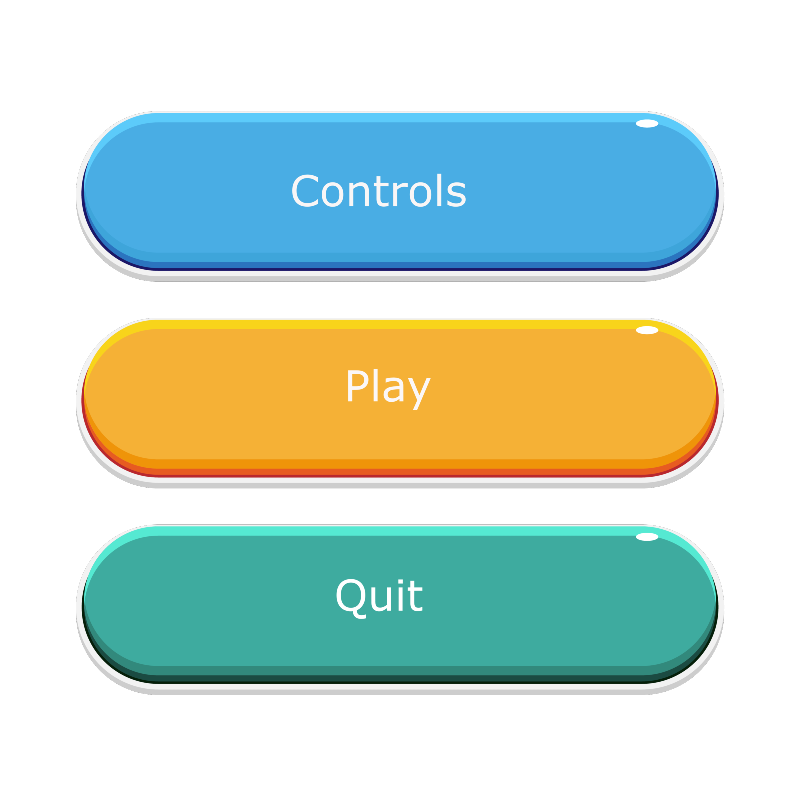
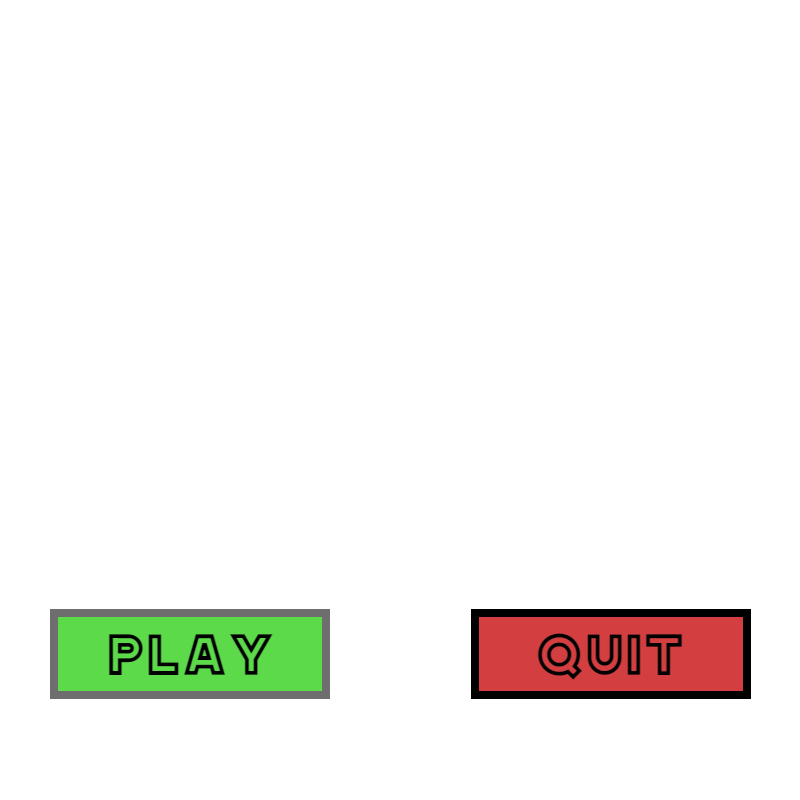
Amelioration de l'ecran d'accueil

diff --git a/CHADventure/CHADventure/ScreenMenu.cs b/CHADventure/CHADventure/ScreenMenu.cs
@@ -25,10 +25,10 @@ namespace CHADventure
         public ScreenMenu(Game1 game) : base(game)
         {
             _myGame = game;
-            lesBoutons = new Rectangle[3];
-            lesBoutons[0] = new Rectangle(75, 110, 640, 160);
-            lesBoutons[1] = new Rectangle(75, 320, 640, 160);
-            lesBoutons[2] = new Rectangle(75, 528, 640, 160);
+            lesBoutons = new Rectangle[2];
+            lesBoutons[0] = new Rectangle(50, 609, 279, 89);
+            lesBoutons[1] = new Rectangle(471, 609, 279, 89);
+
 
         }
         public override void LoadContent()
@@ -49,12 +49,10 @@ namespace CHADventure
                     {
                         // on change l'état défini dans Game1 en fonction du bouton cliqué
                         if (i == 0)
-                            _myGame.etat = Game1.Etats.Controls;
-                        else if (i == 1)
                             _myGame.etat = Game1.Etats.Play;
                         else
                             _myGame.etat = Game1.Etats.Quit;
-                        break;
+                        
                     }
 
                 }
